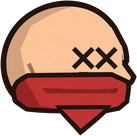
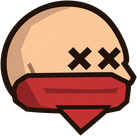
Use the drawn bandana dead head for the drifters
Claude-Session: https://claude.ai/code/session_01BFBgQDRtwohmswCU4dZyTG

diff --git a/tools/fit_drifter_parts.py b/tools/fit_drifter_parts.py
@@ -95,7 +95,6 @@ def main():
         manifest[key] = emit(key, im, bb, ppu, ((bb[0] + bb[2]) / 2, bb[1]), [0, -93])
 
     # Heads: skull top at y = -124, skull's left edge at x = -18; 40 units tall, 45 with the bandana knot.
-    # The bandana dead head is generated by tools/make_bandana_dead_head.py.
     for key, height in (('head', 40), ('head_dead', 40), ('head_bandana', 45), ('head_dead_bandana', 45)):
         im = load_im(key)
         a, bb = alpha(im)

diff --git a/docs/character-parts/README.md b/docs/character-parts/README.md
@@ -107,7 +107,7 @@ The head, torso, leg, revolver arm and hat have been **fitted** and are used for
 | Dynamite Dan | reference, torso (vest, belt and pouch), head, dead head, dynamite arm, bowler, leg | `torso_dynamite_dan` (46 units wide, belt at the hips, pouch down to y = -31.5), `head_dynamite_dan` / `head_dead_dynamite_dan` (skull 40 units), `arm_dynamite_dynamite_dan` (fuse tip (43.4, -30.1), where a thrown stick starts), `hat_dynamite_dan` (brim 52 units; the crown showing below the brim sits over the forehead), `leg_dynamite_dan`. |
 | Hider | reference, torso (jacket, belt and pouch), head and dead head (with bandana), revolver arm, flat hat, leg | `torso_hider` (46 units wide, pouch down to y = -25), `head_hider` / `head_dead_hider` (45 units tall: skull 40 plus the bandana knot), `arm_revolver_hider` (muzzle (82.3, -7.8)), `hat_hider` (brim 78 units), `leg_hider`. He always carries a revolver; his gun arm is hidden while he crouches behind the barrel. |
 | The Undertaker | reference, torso (long coat with the steel plate), head, dead head, revolver arm, top hat, leg | `torso_undertaker` (46 units wide, coat down to y = -20), `head_undertaker` / `head_dead_undertaker` (skull 40 units), `arm_revolver_undertaker` (muzzle (83.6, -6.6)), `hat_undertaker` (brim 56 units), `leg_undertaker`. The plate is part of his torso image, so the separate armor overlay is off for him (`armor: 'none'` in his parts); his body shots still take 25% damage. |
-| Drifters | vest torso (red shirt), plain torso (blue shirt), cowboy hat, revolver arm, shotgun arm | `torso_vest` / `torso_plain` (49 units from the top at y = -93 down to the belt at the hips), `hat_cowboy` (brim 66 units), `arm_revolver_red` / `_blue` (muzzle (86.5, -7.6)), `arm_shotgun_red` / `_blue` (muzzle (100.2, -6.8)). Each arm is saved with a red and a blue sleeve (recoloured, keeping the shading) to match the shirt. Heads: `head` / `head_dead` (skull 40 units) and `head_bandana` / `head_dead_bandana` (45 with the knot); `leg`. The bandana dead head is generated from the bandana head by `tools/make_bandana_dead_head.py` until a drawn one replaces it. Fit tool: `tools/fit_drifter_parts.py`. |
+| Drifters | vest torso (red shirt), plain torso (blue shirt), cowboy hat, revolver arm, shotgun arm | `torso_vest` / `torso_plain` (49 units from the top at y = -93 down to the belt at the hips), `hat_cowboy` (brim 66 units), `arm_revolver_red` / `_blue` (muzzle (86.5, -7.6)), `arm_shotgun_red` / `_blue` (muzzle (100.2, -6.8)). Each arm is saved with a red and a blue sleeve (recoloured, keeping the shading) to match the shirt. Heads: `head` / `head_dead` (skull 40 units) and `head_bandana` / `head_dead_bandana` (45 with the knot); `leg`. Fit tool: `tools/fit_drifter_parts.py`. |
 | Gunslinger boss | references (rifle, twins), torso (teal shirt, belt and pouch), rifle arm, hat | `torso_gunslinger` (46 units wide), `arm_rifle_gunslinger` (muzzle (100.3, -4.8)), `hat_gunslinger` (brim 72 units). His revolver and off-hand arms are the drifter revolver arm with a teal sleeve (`arm_revolver_gunslinger`, and a darker `offhand_gunslinger`). Until his own head, dead head and leg arrive he borrows Dynamite Dan's heads and the Gambler's leg. He now always has this look instead of a random outfit. |
 
 Fit new outlaw parts with `python3 -I tools/fit_outlaw_parts.py docs/character-parts/refined/<type> <type> public/art/outlaw`, copy the manifest to `src/art/outlaw.json` and map the parts in `lookFor()` (`src/config.js`).

diff --git a/docs/character-parts/still-to-redraw/README.md b/docs/character-parts/still-to-redraw/README.md
@@ -1,6 +1,6 @@
 # Still to redraw
 
-**Almost everything is done.** Only optional extras remain: the gunslinger boss's own head, dead head and leg (he borrows Dynamite Dan's heads and the Gambler's leg), and a drawn bandana dead head for the drifters. The files below are kept for reference. Send each redrawn part as its own transparent PNG, in the same pose and layout, like the special outlaws.
+**Almost everything is done.** Only optional extras remain: the gunslinger boss's own head, dead head and leg (he borrows Dynamite Dan's heads and the Gambler's leg). The files below are kept for reference. Send each redrawn part as its own transparent PNG, in the same pose and layout, like the special outlaws.
 
 ## Sheriff
 
@@ -8,7 +8,7 @@
 
 ## Drifters (the ordinary outlaws)
 
-**Done**: all parts. The bandana dead head is generated from the bandana head (X eyes painted on) until a drawn one replaces it.
+**Done**: all parts.
 
 ## Gunslinger boss
 
